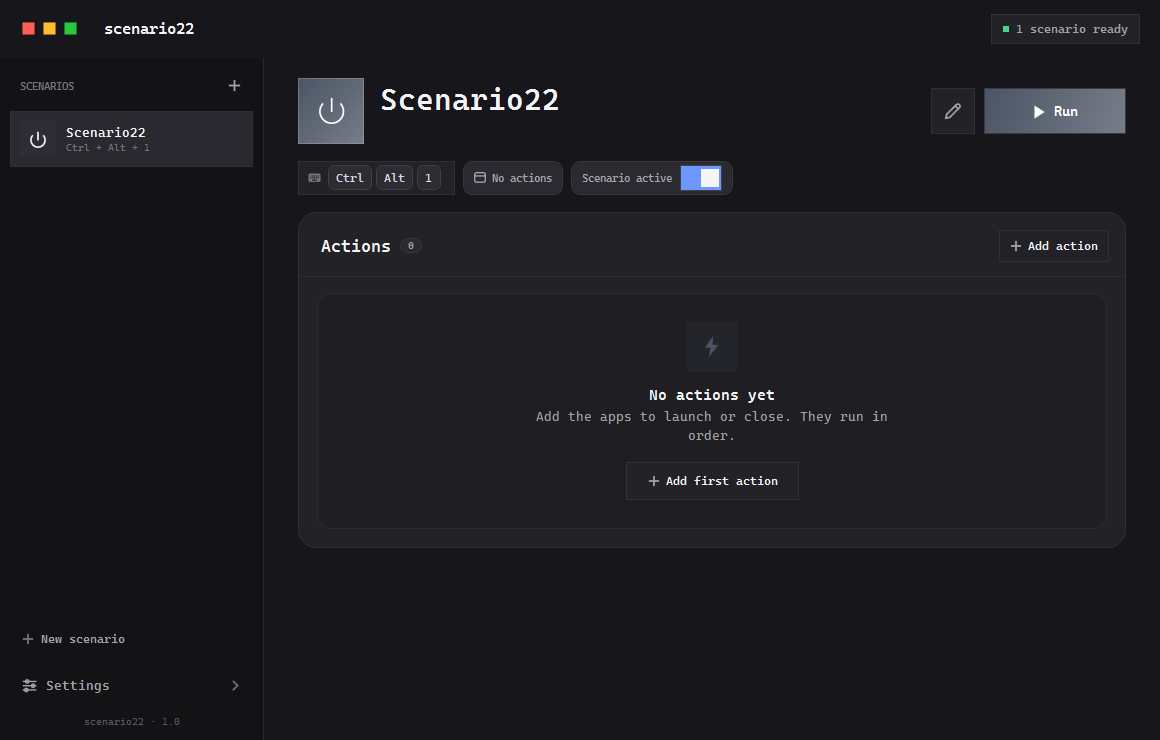
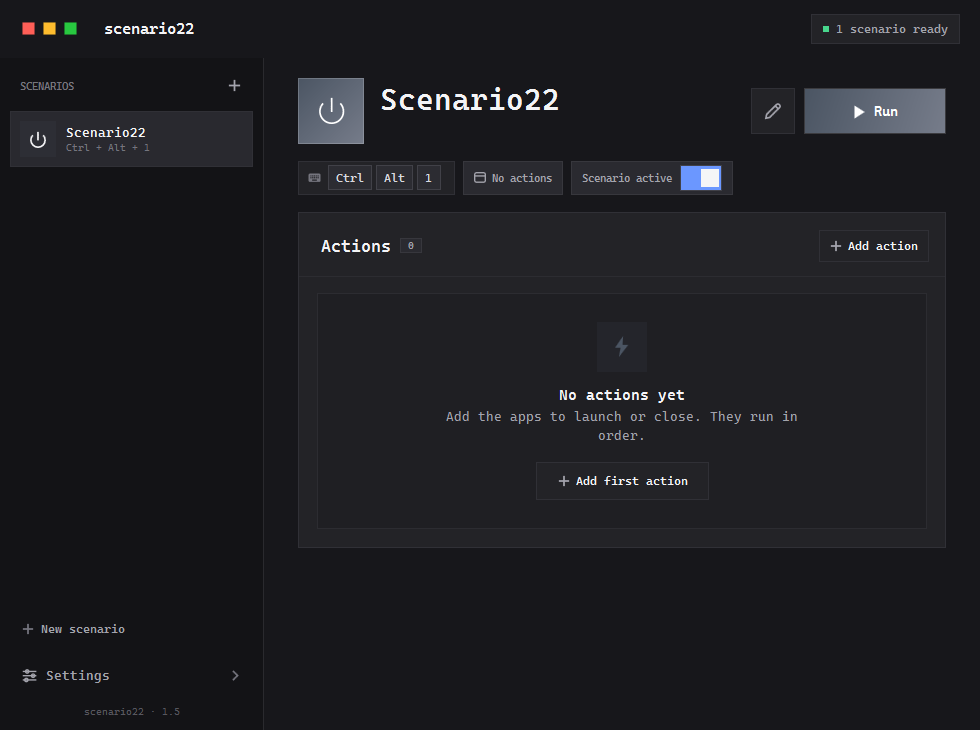
Version 1.5: compact default window, LINKS card (GitHub, Telegram)

diff --git a/scenario22/MainWindow.xaml b/scenario22/MainWindow.xaml
@@ -3,8 +3,8 @@
         xmlns:x="http://schemas.microsoft.com/winfx/2006/xaml"
         xmlns:models="clr-namespace:Scenario22.Models"
         Title="scenario22"
-        Width="1160"
-        Height="740"
+        Width="980"
+        Height="730"
         MinWidth="980"
         MinHeight="700"
         WindowStyle="None"
@@ -61,6 +61,12 @@
                     <Setter Property="BorderBrush" Value="{DynamicResource CardBorderBrush}" />
                 </DataTrigger>
             </Style.Triggers>
+        </Style>
+
+        <Style x:Key="LinkRowButton" TargetType="Button" BasedOn="{StaticResource GhostButton}">
+            <Setter Property="Height" Value="46" />
+            <Setter Property="Padding" Value="0" />
+            <Setter Property="HorizontalContentAlignment" Value="Stretch" />
         </Style>
 
         <Style x:Key="ActionRow" TargetType="Border">
@@ -492,7 +498,8 @@
                                       StrokeThickness="1.7" />
                             </Grid>
                         </Button>
-                        <TextBlock Text="scenario22 · 1.0"
+                        <TextBlock x:Name="VersionText"
+                                   Text="scenario22 · 1.0"
                                    Margin="0,10,0,0"
                                    HorizontalAlignment="Center"
                                    FontFamily="{StaticResource AppFontFamily}"
@@ -1178,40 +1185,63 @@
                             </Grid>
                         </Border>
 
-                        <TextBlock Text="{DynamicResource L_SectAbout}"
+                        <TextBlock Text="{DynamicResource L_SectLinks}"
                                    Style="{StaticResource TextSectionLabel}"
                                    Margin="2,22,0,9" />
-                        <Border Style="{StaticResource Card}">
-                            <Grid>
-                                <Grid.ColumnDefinitions>
-                                    <ColumnDefinition Width="Auto" />
-                                    <ColumnDefinition Width="*" />
-                                </Grid.ColumnDefinitions>
-                                <Border Width="46"
-                                        Height="46"
-                                        CornerRadius="0"
-                                        Background="{DynamicResource AccentStaticBrush}"
-                                        BorderBrush="{DynamicResource CardBorderStrongBrush}"
-                                        BorderThickness="1">
-                                    <Path Data="{StaticResource IconBolt}"
-                                          Fill="White"
-                                          Width="22"
-                                          Height="22"
-                                          Stretch="Uniform"
-                                          HorizontalAlignment="Center"
-                                          VerticalAlignment="Center" />
-                                </Border>
-                                <StackPanel Grid.Column="1" Margin="13,0,0,0" VerticalAlignment="Center">
-                                    <TextBlock Text="scenario22" Style="{StaticResource TextValue}" FontSize="14" />
-                                    <TextBlock Text="{DynamicResource L_AboutLine}"
-                                               Style="{StaticResource TextCaption}"
-                                               Margin="0,3,0,0" />
-                                    <TextBlock Text="{DynamicResource L_AboutLocal}"
-                                               Style="{StaticResource TextCaption}"
-                                               Margin="0,2,0,0"
-                                               Foreground="{DynamicResource TextTertiaryBrush}" />
-                                </StackPanel>
-                            </Grid>
+                        <Border Style="{StaticResource Card}" Padding="10">
+                            <StackPanel>
+                                <Button Style="{StaticResource LinkRowButton}"
+                                        Click="OpenLink_Click"
+                                        Tag="https://github.com/wintence/scenario22"
+                                        ToolTip="github.com/wintence/scenario22">
+                                    <Grid>
+                                        <Grid.ColumnDefinitions>
+                                            <ColumnDefinition Width="Auto" />
+                                            <ColumnDefinition Width="*" />
+                                        </Grid.ColumnDefinitions>
+                                        <Border Style="{StaticResource SettingIconTile}">
+                                            <Path Data="{StaticResource IconExternal}"
+                                                  Style="{StaticResource LineIcon}"
+                                                  Width="16"
+                                                  Height="16"
+                                                  HorizontalAlignment="Center"
+                                                  VerticalAlignment="Center" />
+                                        </Border>
+                                        <StackPanel Grid.Column="1" Margin="12,0,0,0" VerticalAlignment="Center">
+                                            <TextBlock Text="GitHub" Style="{StaticResource TextValue}" />
+                                            <TextBlock Text="github.com/wintence/scenario22"
+                                                       Style="{StaticResource TextCaption}"
+                                                       Margin="0,2,0,0" />
+                                        </StackPanel>
+                                    </Grid>
+                                </Button>
+                                <Border Height="1" Background="{DynamicResource DividerBrush}" Margin="48,2" />
+                                <Button Style="{StaticResource LinkRowButton}"
+                                        Click="OpenLink_Click"
+                                        Tag="https://t.me/devtence"
+                                        ToolTip="t.me/devtence">
+                                    <Grid>
+                                        <Grid.ColumnDefinitions>
+                                            <ColumnDefinition Width="Auto" />
+                                            <ColumnDefinition Width="*" />
+                                        </Grid.ColumnDefinitions>
+                                        <Border Style="{StaticResource SettingIconTile}">
+                                            <Path Data="{StaticResource IconExternal}"
+                                                  Style="{StaticResource LineIcon}"
+                                                  Width="16"
+                                                  Height="16"
+                                                  HorizontalAlignment="Center"
+                                                  VerticalAlignment="Center" />
+                                        </Border>
+                                        <StackPanel Grid.Column="1" Margin="12,0,0,0" VerticalAlignment="Center">
+                                            <TextBlock Text="Telegram" Style="{StaticResource TextValue}" />
+                                            <TextBlock Text="t.me/devtence"
+                                                       Style="{StaticResource TextCaption}"
+                                                       Margin="0,2,0,0" />
+                                        </StackPanel>
+                                    </Grid>
+                                </Button>
+                            </StackPanel>
                         </Border>
                     </StackPanel>
                 </ScrollViewer>

diff --git a/scenario22/Themes/Strings.Ru.xaml b/scenario22/Themes/Strings.Ru.xaml
@@ -71,9 +71,7 @@
     <sys:String x:Key="L_SetDataTitle">Папка настроек</sys:String>
     <sys:String x:Key="L_DataOpen">Открыть</sys:String>
 
-    <sys:String x:Key="L_SectAbout">О ПРОГРАММЕ</sys:String>
-    <sys:String x:Key="L_AboutLine">Версия 1.0 · Сценарии одним нажатием</sys:String>
-    <sys:String x:Key="L_AboutLocal">Настройки хранятся только на этом компьютере.</sys:String>
+    <sys:String x:Key="L_SectLinks">LINKS</sys:String>
 
     <!-- Scenario sheet -->
     <sys:String x:Key="L_EditScenarioTitle">Изменить сценарий</sys:String>

diff --git a/scenario22/Themes/Strings.En.xaml b/scenario22/Themes/Strings.En.xaml
@@ -71,10 +71,7 @@
     <sys:String x:Key="L_SetDataTitle">Settings folder</sys:String>
     <sys:String x:Key="L_DataOpen">Open</sys:String>
 
-    <sys:String x:Key="L_SectAbout">ABOUT</sys:String>
-    <sys:String x:Key="L_AboutLine">Version 1.0 · Scenarios at a single keystroke</sys:String>
-    <sys:String x:Key="L_AboutLocal">Settings are stored only on this computer.</sys:String>
-
+    <sys:String x:Key="L_SectLinks">LINKS</sys:String>
     <!-- Scenario sheet -->
     <sys:String x:Key="L_EditScenarioTitle">Edit scenario</sys:String>
     <sys:String x:Key="L_SheetSubtitle">Name, vibe and a hotkey</sys:String>

diff --git a/scenario22/MainWindow.xaml.cs b/scenario22/MainWindow.xaml.cs
@@ -200,8 +200,47 @@ public partial class MainWindow : Window, INotifyPropertyChanged
         }
     }
 
+    /// <summary>
+    /// Opens an external link (GitHub / Telegram) from the settings LINKS card.
+    /// </summary>
+    private void OpenLink_Click(object sender, RoutedEventArgs e)
+    {
+        if (sender is System.Windows.Controls.Button { Tag: string url } && !string.IsNullOrWhiteSpace(url))
+        {
+            try
+            {
+                System.Diagnostics.Process.Start(new System.Diagnostics.ProcessStartInfo
+                {
+                    FileName = url,
+                    UseShellExecute = true
+                });
+            }
+            catch
+            {
+                // Opening the browser is best-effort.
+            }
+        }
+    }
+
+    /// <summary>
+    /// Formats the assembly version for the sidebar footer: 1.5.0.0 prints as "1.5".
+    /// </summary>
+    private static string FormatDisplayVersion()
+    {
+        var version = System.Reflection.Assembly.GetEntryAssembly()?.GetName().Version;
+        if (version is null)
+        {
+            return string.Empty;
+        }
+
+        return version.Build == 0
+            ? $"{version.Major}.{version.Minor}"
+            : $"{version.Major}.{version.Minor}.{version.Build}";
+    }
+
     private void Window_Loaded(object sender, RoutedEventArgs e)
     {
+        VersionText.Text = "scenario22 · " + FormatDisplayVersion();
         DataFolderPath.Text = _settings.DataDirectory;
         DataFolderPath.ToolTip = _settings.SettingsPath;
         LanguageEnChoice.IsChecked = !LanguageService.IsRu;
